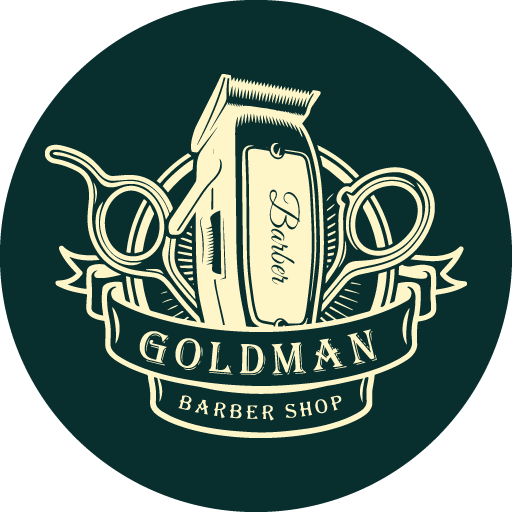
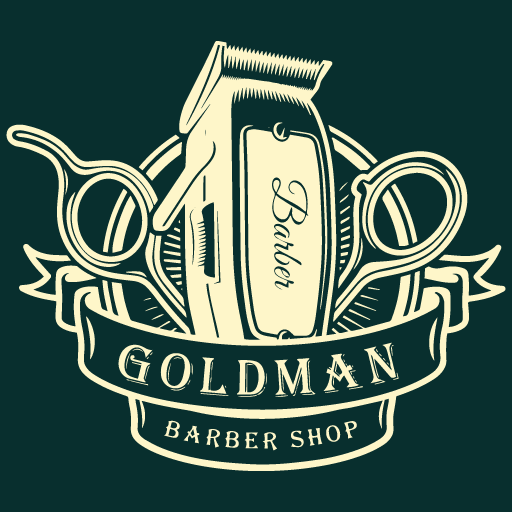
update fav

diff --git a/src/App.vue b/src/App.vue
@@ -17,8 +17,8 @@ useHead({
   link: [
     {
       rel: 'icon',
-      type: 'image/svg+xml',
-      href: () => preferredDark.value ? '/favicon.svg' : '/favicon.svg',
+      type: 'image/png',
+      href: () => preferredDark.value ? '/pwa-512x512.png' : '/pwa-512x512.png',
     },
   ],
 })
